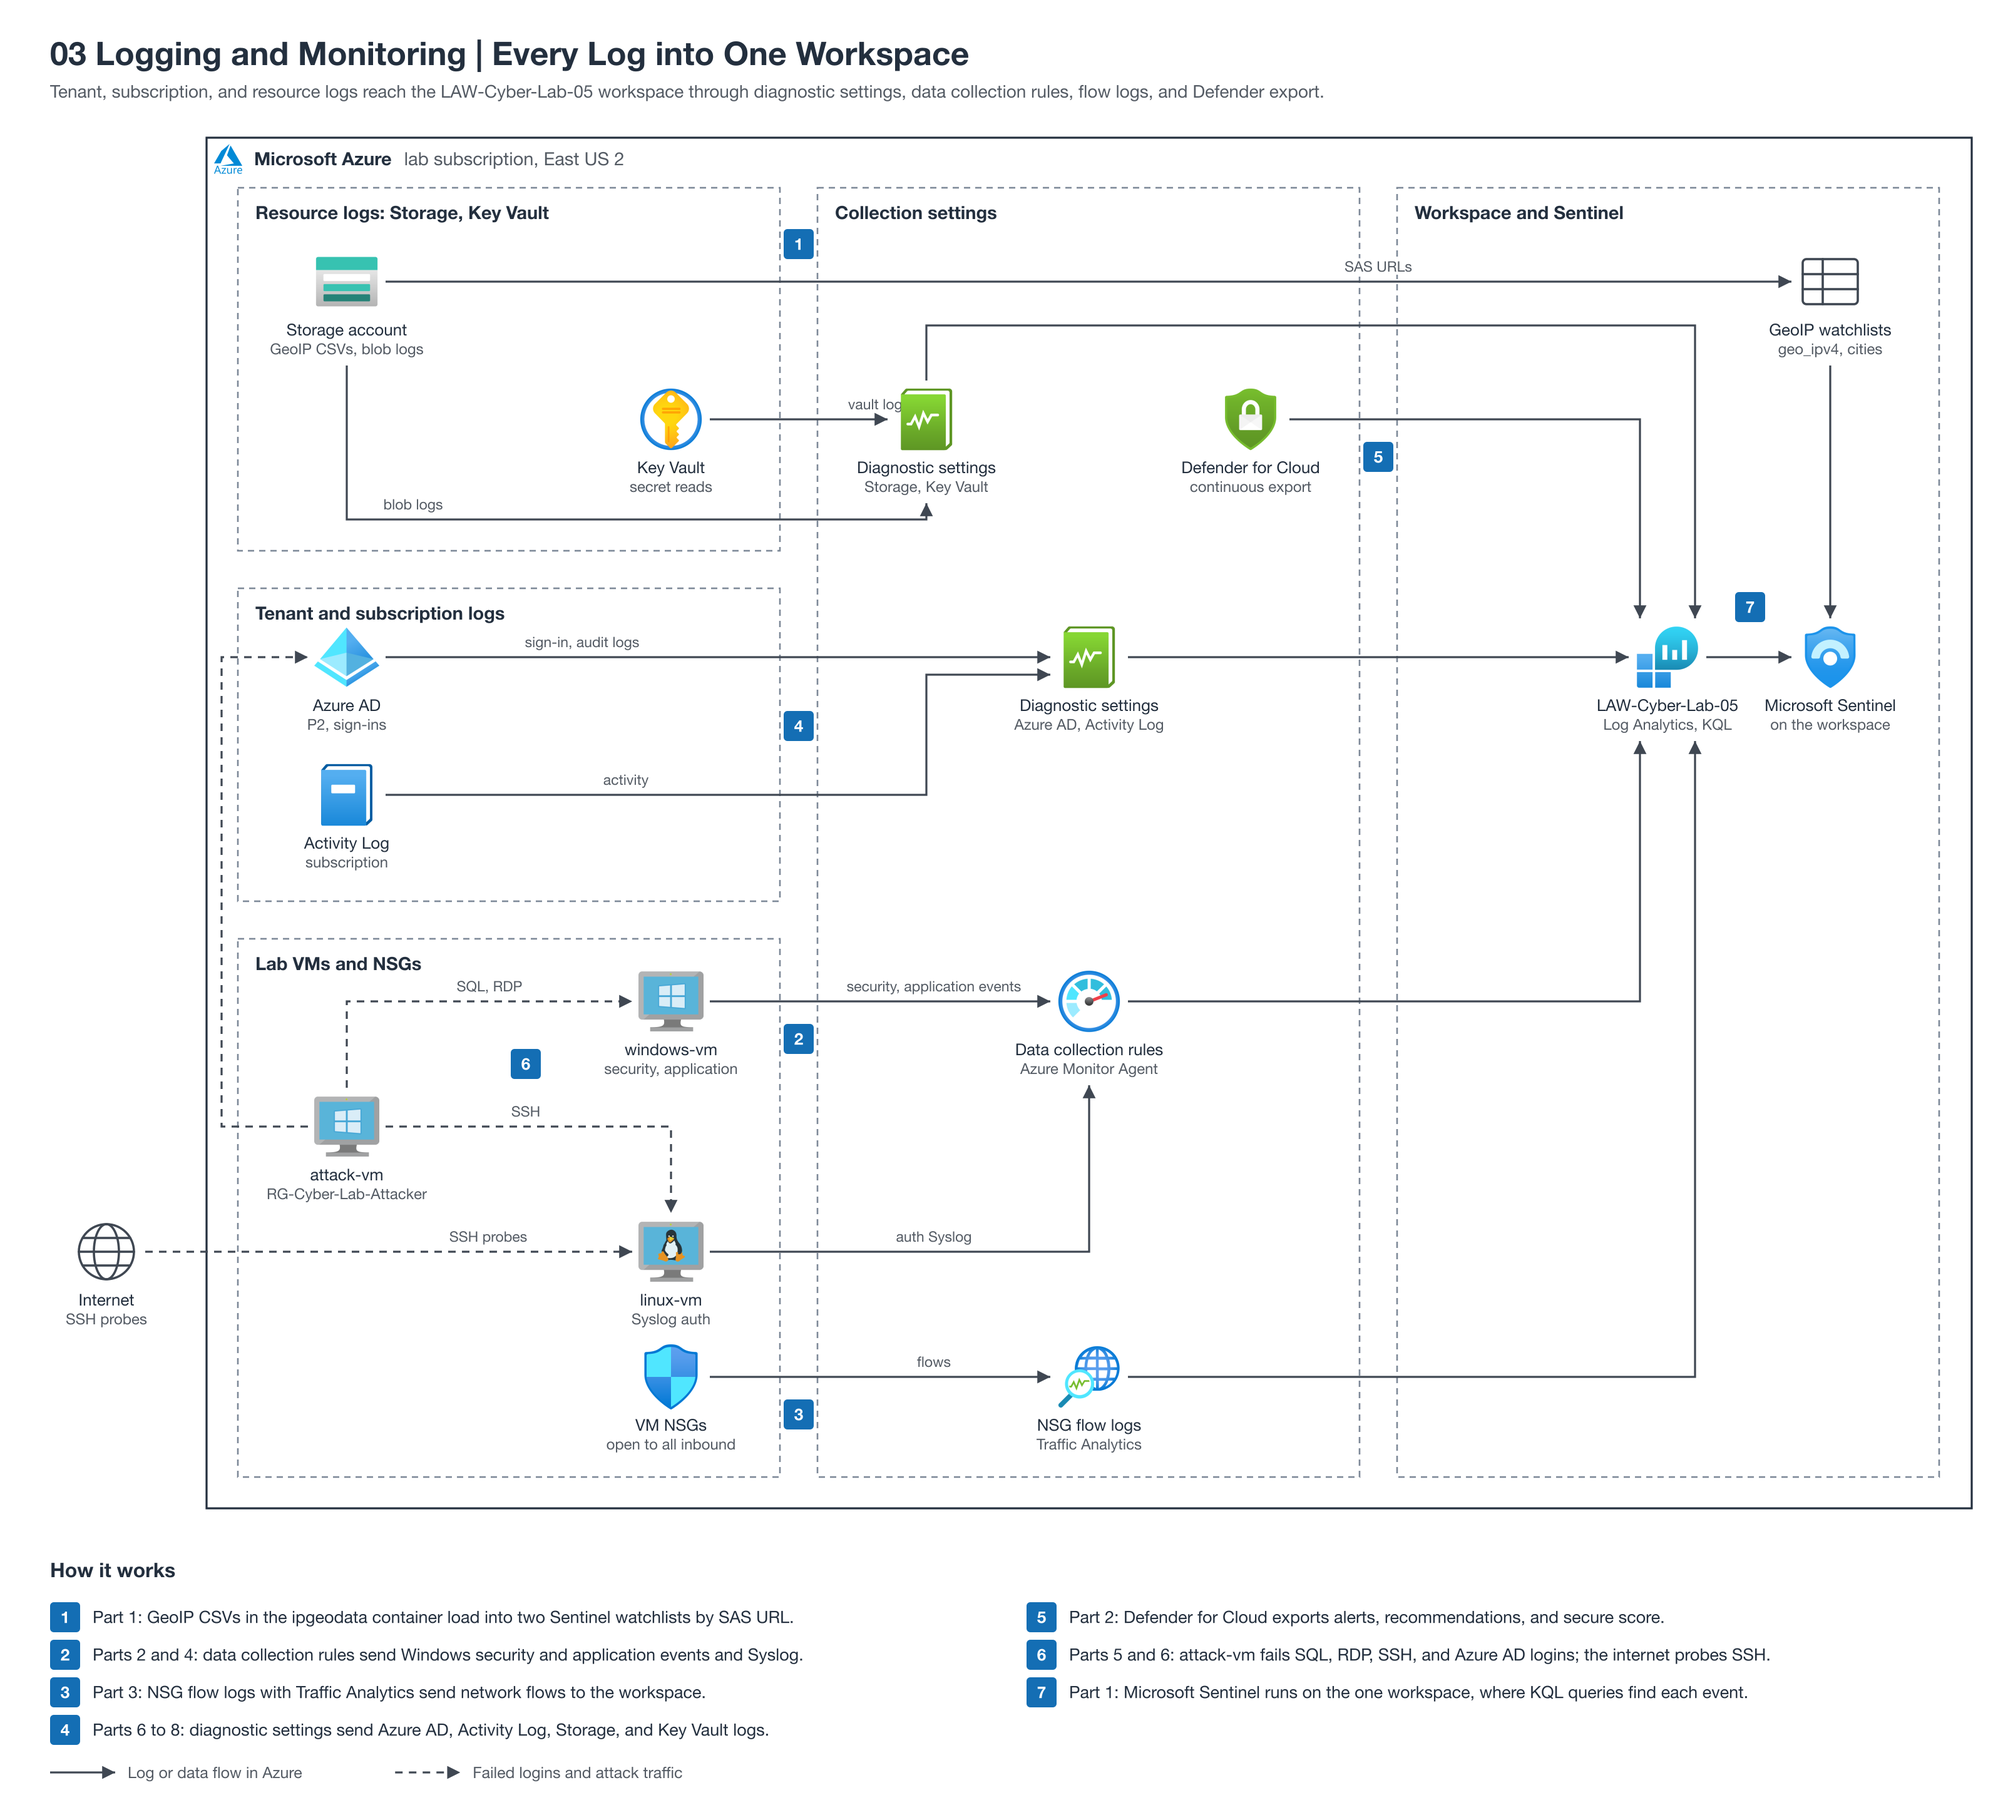
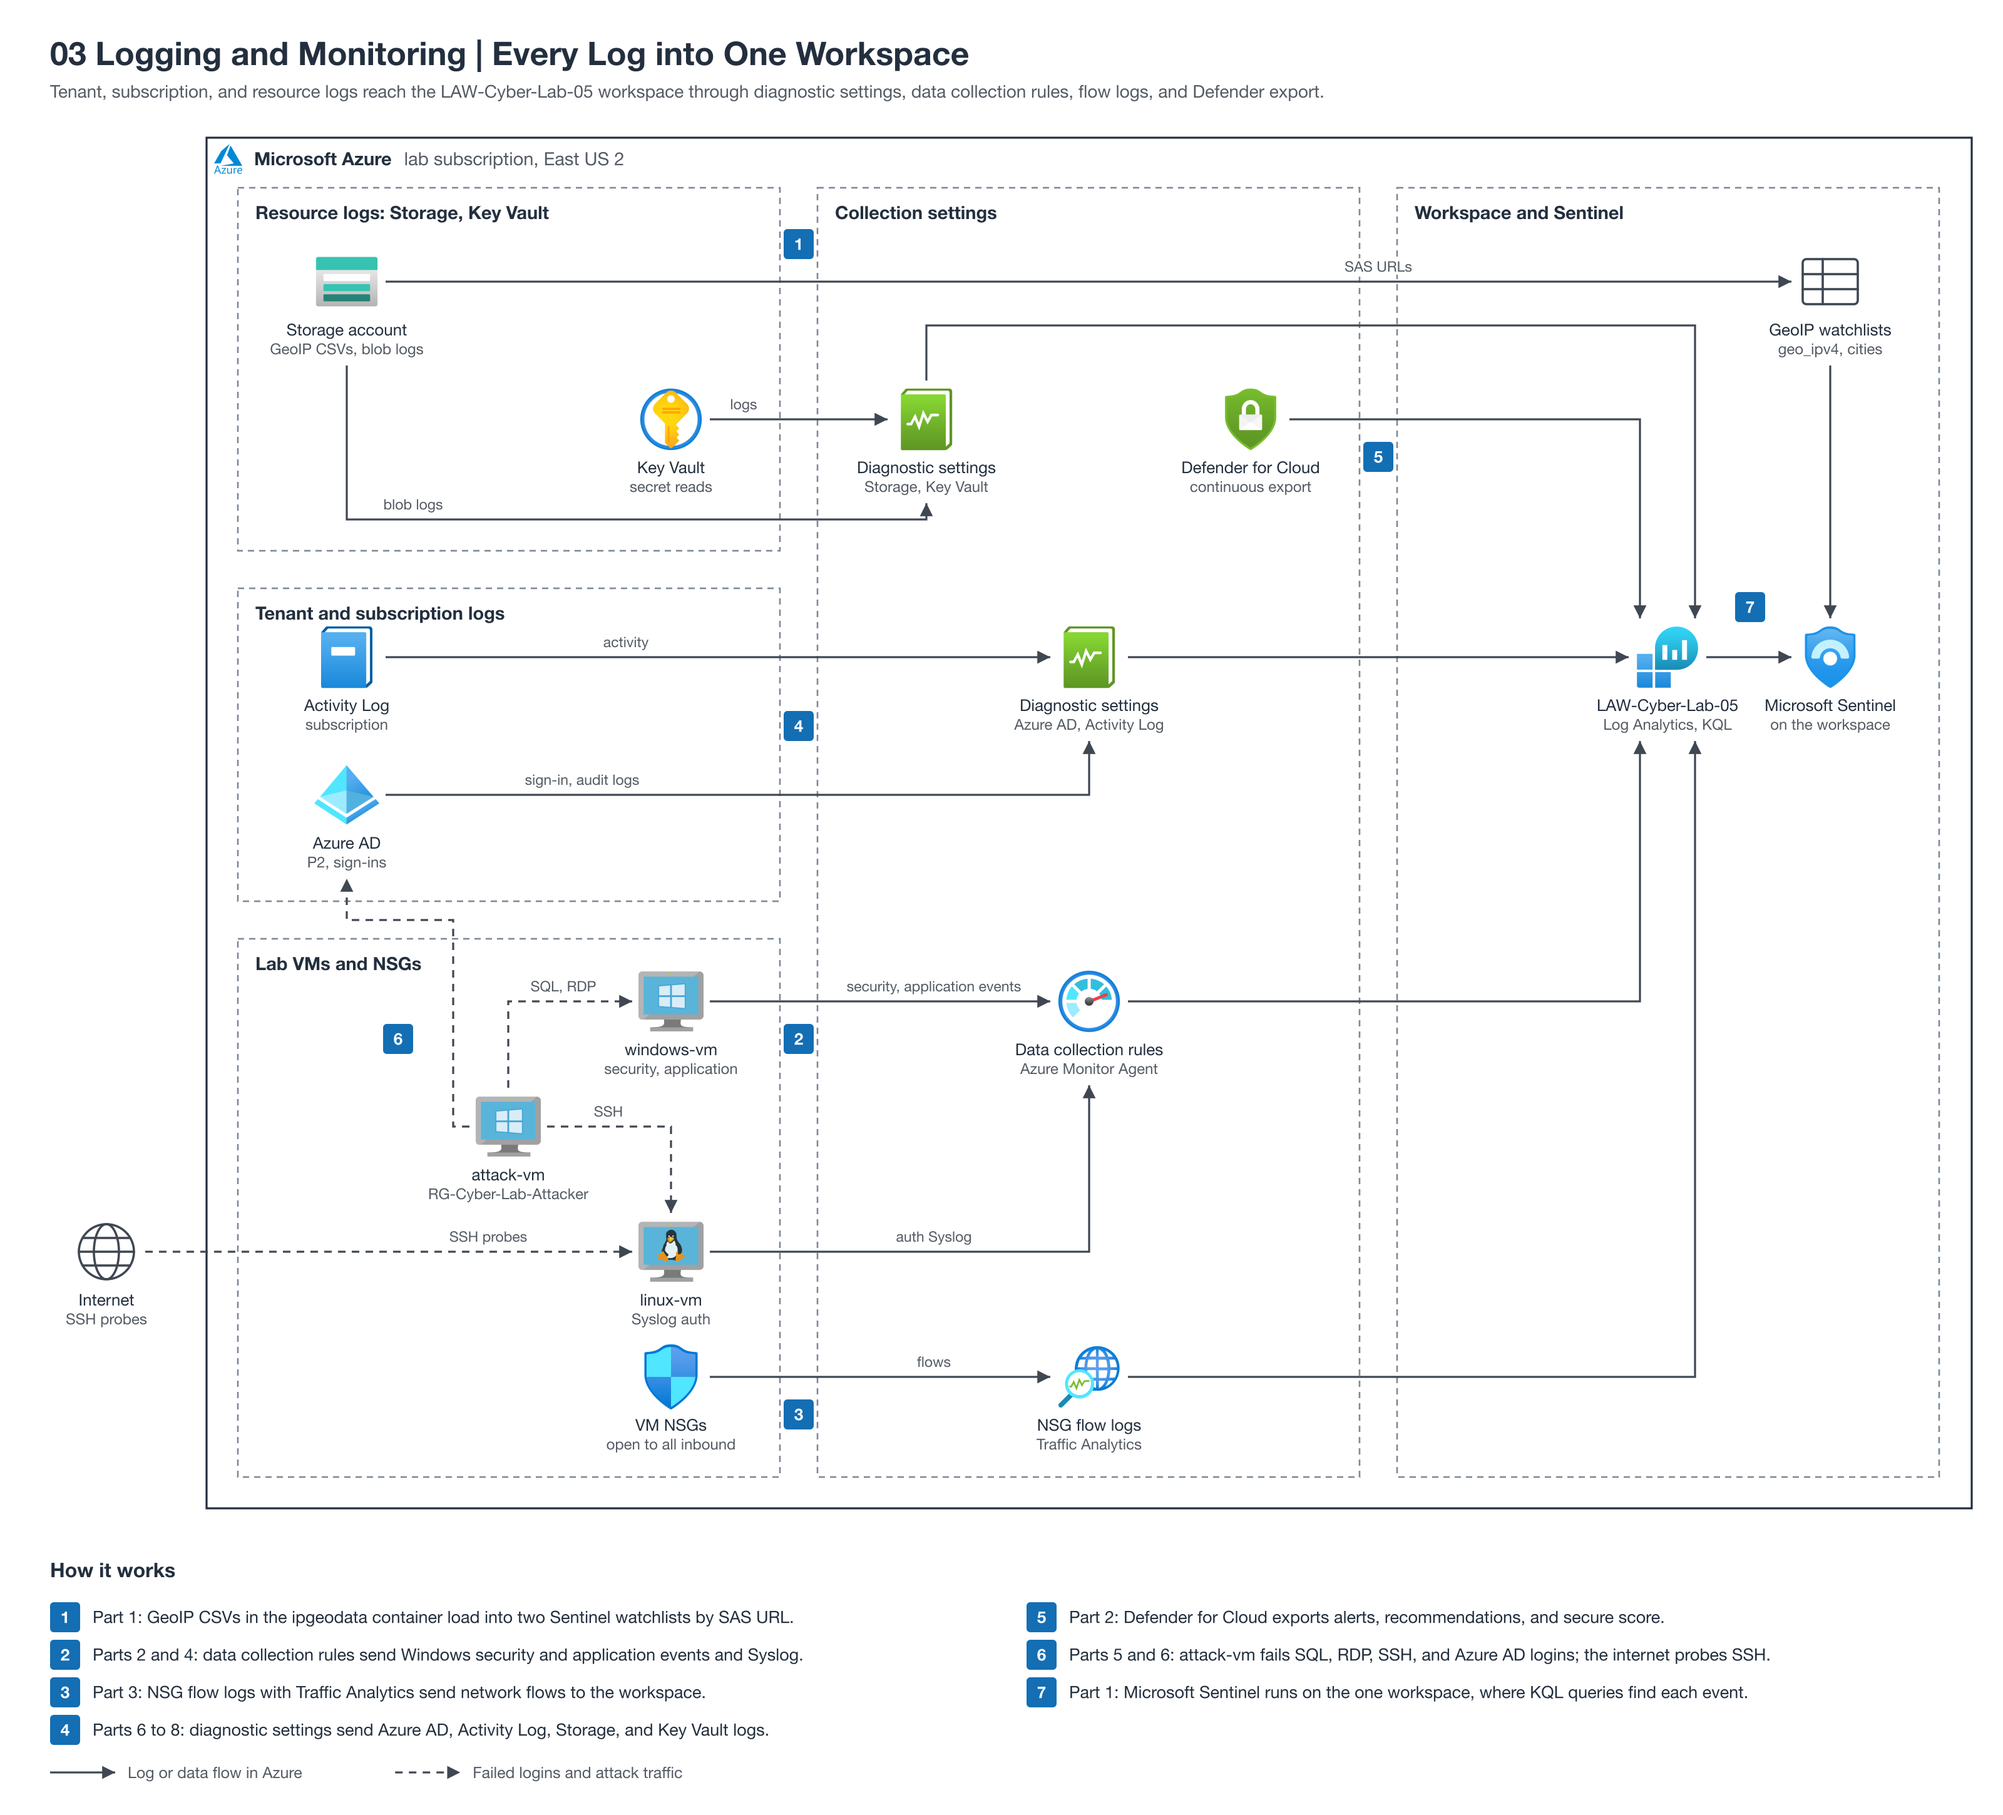
fix: unclip 03 diagram label and separate attack and Azure AD routes

diff --git a/03-logging-and-monitoring/assets/architecture_diagram.py b/03-logging-and-monitoring/assets/architecture_diagram.py
@@ -304,9 +304,9 @@ node("internet", "glyph:globe", XL, C3, "Internet", "SSH probes")
 node("storage", AZ + "storage/storage-accounts.png", SL[0][0], A1, "Storage account",
      "GeoIP CSVs, blob logs")
 node("kv", AZ + "security/key-vaults.png", SL[0][2], B1, "Key Vault", "secret reads")
-node("aad", AZ + "identity/azure-active-directory.png", SL[0][0], A2, "Azure AD", "P2, sign-ins")
-node("activity", AZ + "monitor/activity-log.png", SL[0][0], B2, "Activity Log", "subscription")
-node("attackvm", AZ + "compute/vm-windows.png", SL[0][0], B3, "attack-vm",
+node("activity", AZ + "monitor/activity-log.png", SL[0][0], A2, "Activity Log", "subscription")
+node("aad", AZ + "identity/azure-active-directory.png", SL[0][0], B2, "Azure AD", "P2, sign-ins")
+node("attackvm", AZ + "compute/vm-windows.png", SL[0][1], B3, "attack-vm",
      "RG-Cyber-Lab-Attacker")
 node("winvm", AZ + "compute/vm-windows.png", SL[0][2], A3, "windows-vm", "security, application")
 node("linvm", AZ + "compute/vm-linux.png", SL[0][2], C3, "linux-vm", "Syslog auth")
@@ -332,9 +332,8 @@ link("storage", "b", "diagr", "b", via=[(SL[0][0], 415), (SL[1][0], 415)])
 link("kv", "r", "diagr", "l")
 link("diagr", "t", "law", "t", via=[(SL[1][0], 260), (XB, 260)], end=(XB, LT))
 link("defender", "r", "law", "t", via=[(XA, B1)], end=(XA, LT))
-link("aad", "r", "diagt", "l")
-link("activity", "r", "diagt", "l", via=[(SL[1][0], B2), (SL[1][0], A2 + 14)],
-     end=(SL[1][1] - HALF - 5, A2 + 14))
+link("activity", "r", "diagt", "l")
+link("aad", "r", "diagt", "b", via=[(SL[1][1], B2)])
 link("diagt", "r", "law", "l")
 link("winvm", "r", "dcr", "l")
 link("linvm", "r", "dcr", "b", via=[(SL[1][1], C3)])
@@ -343,30 +342,31 @@ link("nsg", "r", "flow", "l")
 link("flow", "r", "law", "b", via=[(XB, D3)], end=(XB, LB))
 link("law", "r", "sentinel", "l")
 link("watch", "b", "sentinel", "t")
-link("attackvm", "t", "winvm", "l", "external", via=[(SL[0][0], A3)])
+link("attackvm", "t", "winvm", "l", "external", via=[(SL[0][1], A3)])
 link("attackvm", "r", "linvm", "t", "external", via=[(SL[0][2], B3)])
-link("attackvm", "l", "aad", "l", "external", via=[(177, B3), (177, A2)])
+XG, YG = 362, 735                                     # clear of the group title; row gutter
+link("attackvm", "l", "aad", "b", "external", via=[(XG, B3), (XG, YG), (SL[0][0], YG)])
 link("internet", "r", "linvm", "l", "external")
 
 # ---------------- EDIT: line labels (white halo keeps them readable over lines) ----------------
 LBL = 11.5
 text(1101, A1 - 8, "SAS URLs", LBL, 400, TEXT2, "middle", halo=True)
-text(702, B1 - 8, "vault logs", LBL, 400, TEXT2, "middle", halo=True)
+text(594, B1 - 8, "logs", LBL, 400, TEXT2, "middle", halo=True)
 text(330, 407, "blob logs", LBL, 400, TEXT2, "middle", halo=True)
-text(465, A2 - 8, "sign-in, audit logs", LBL, 400, TEXT2, "middle", halo=True)
-text(500, B2 - 8, "activity", LBL, 400, TEXT2, "middle", halo=True)
+text(465, B2 - 8, "sign-in, audit logs", LBL, 400, TEXT2, "middle", halo=True)
+text(500, A2 - 8, "activity", LBL, 400, TEXT2, "middle", halo=True)
 text(746, A3 - 8, "security, application events", LBL, 400, TEXT2, "middle", halo=True)
 text(746, C3 - 8, "auth Syslog", LBL, 400, TEXT2, "middle", halo=True)
 text(746, D3 - 8, "flows", LBL, 400, TEXT2, "middle", halo=True)
-text(391, A3 - 8, "SQL, RDP", LBL, 400, TEXT2, "middle", halo=True)
-text(420, B3 - 8, "SSH", LBL, 400, TEXT2, "middle", halo=True)
+text(450, A3 - 8, "SQL, RDP", LBL, 400, TEXT2, "middle", halo=True)
+text(486, B3 - 8, "SSH", LBL, 400, TEXT2, "middle", halo=True)
 text(390, C3 - 8, "SSH probes", LBL, 400, TEXT2, "middle", halo=True)
 
 draw_nodes()
 
 # ---------------- EDIT: step badges (x, y, number), in a gutter beside their line ----------------
 for cx, cy, n in [(638, 195, 1), (638, A3 + 30, 2), (638, D3 + 30, 3), (638, 580, 4),
-                  (1101, 365, 5), (420, 850, 6), (1398, A2 - 40, 7)]:
+                  (1101, 365, 5), (318, 830, 6), (1398, A2 - 40, 7)]:
     badge(cx, cy, n)
 
 # ---------------- EDIT: legend, one short sentence per badge ----------------
